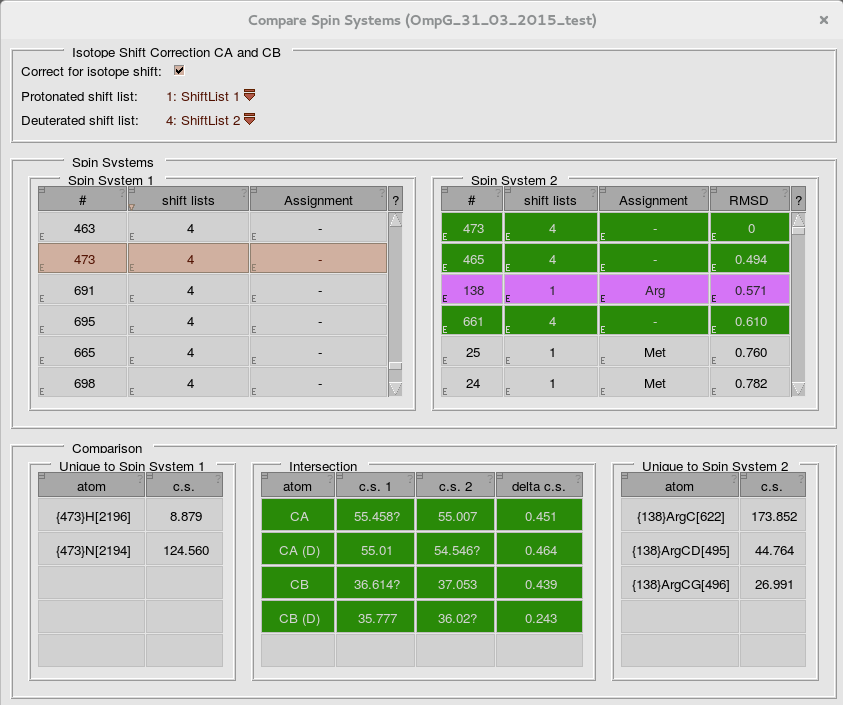
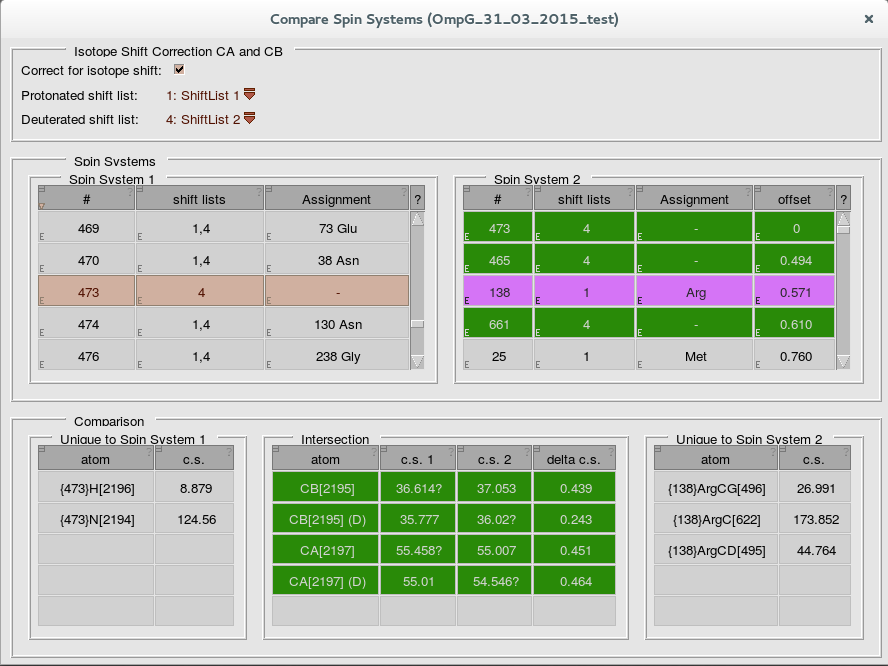
Changed the RMSD label in the GUI. Because it is not really RMSD but just a root of squares. Called it offset.

Changed region(s): [[0.0, 0.0, 1.0, 1.0], [0.9561, 0.0, 0.987, 0.03]]

diff --git a/compare_spin_systems_gui.py b/compare_spin_systems_gui.py
@@ -149,7 +149,7 @@ class SpinSystemComparePopup(BasePopup):
         self.tableA1.grid(row=0, column=0, sticky='nsew')
 
         # Table A2
-        headingList = ['#', 'shift lists', 'Assignment', 'RMSD']
+        headingList = ['#', 'shift lists', 'Assignment', 'offset']
         tipTexts = ['Spin System Serial', 'The residue (tentatively) assigned to this spin system',
                     'Root mean squared deviation of this spin system to the spin system selected in the table on the left.']
         editGetCallbacks = [self.setSpinSystem2]*4
